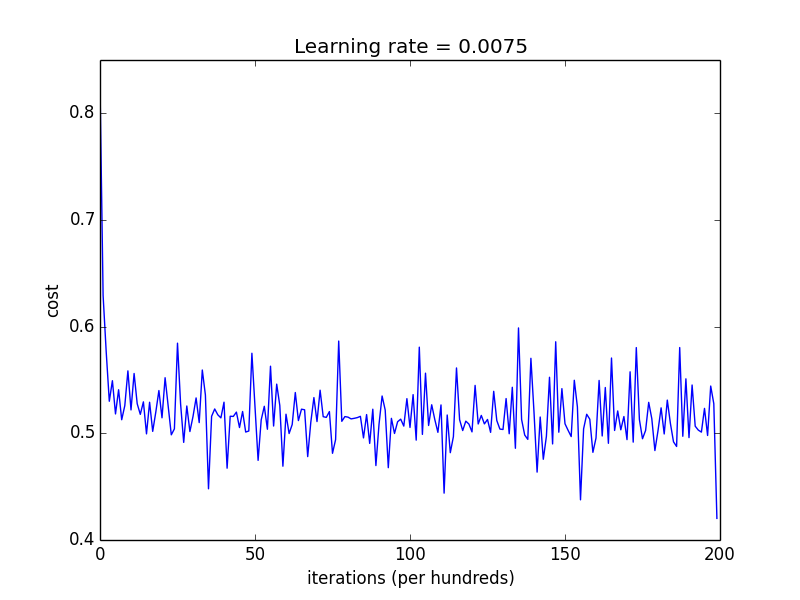
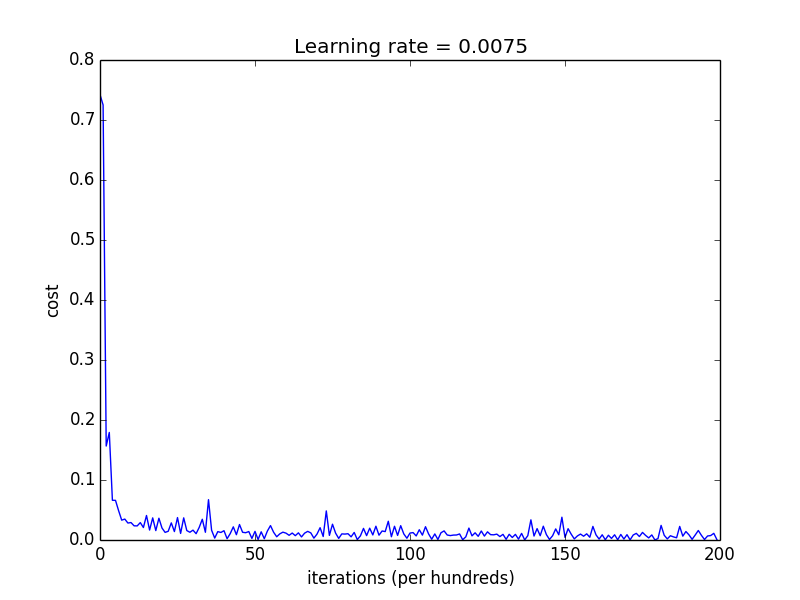
modify lesson4

diff --git a/lesson4/planar_utils.py b/lesson4/planar_utils.py
@@ -1,19 +1,4 @@
 # -*- coding:utf-8 -*-
-#!/usr/bin/env python
-#  -*- coding:utf-8 -*-
-################################################################################
-#
-# Copyright (c) 2017 Baidu.com, Inc. All Rights Reserved
-#
-################################################################################
-
-"""
-Authors: Jiahui Liu(897744517@qq.com)
-Date:    2017/11/19 17:23:06
-
-用于载入数据
-load_planar_dataset()函数返回训练集和测试集
-"""
 import matplotlib.pyplot as plt
 import numpy as np
 import random
@@ -21,17 +6,10 @@ import sklearn
 import sklearn.datasets
 import sklearn.linear_model
 
-#绘制分类结果边界
 def plot_decision_boundary(model, X, y):
-    """
-    绘制分类边界
-    model: 模型
-    X: 输入值
-    y: 真实值
-    """
     # Set min and max values and give it some padding
-    x_min, x_max = X[0, : ].min() - 1, X[0, : ].max() + 1
-    y_min, y_max = X[1, : ].min() - 1, X[1, : ].max() + 1
+    x_min, x_max = X[0, :].min() - 1, X[0, :].max() + 1
+    y_min, y_max = X[1, :].min() - 1, X[1, :].max() + 1
     h = 0.01
     # Generate a grid of points with distance h between them
     xx, yy = np.meshgrid(np.arange(x_min, x_max, h), np.arange(y_min, y_max, h))
@@ -42,9 +20,9 @@ def plot_decision_boundary(model, X, y):
     plt.contourf(xx, yy, Z, cmap=plt.cm.Spectral)
     plt.ylabel('x2')
     plt.xlabel('x1')
-    plt.scatter(X[0, : ], X[1, : ], c=y, cmap=plt.cm.Spectral)
+    plt.scatter(X[0, :], X[1, :], c=y, cmap=plt.cm.Spectral)
     
-#定义Sigmoid函数
+
 def sigmoid(x):
     """
     Compute the sigmoid of x
@@ -55,12 +33,9 @@ def sigmoid(x):
     Return:
     s -- sigmoid(x)
     """
-    # Sigmoid计算
-    s = 1 / (1 + np.exp(-x))
+    s = 1/(1+np.exp(-x))
     return s
 
-
-#加载数据
 def load_planar_dataset():
     """
     加载数据
@@ -70,48 +45,35 @@ def load_planar_dataset():
         X:测试集的输入
         Y:测试集的真实值
     """
-    np.random.seed(1) #设置随机种子
-    m = 400 # number of examples
-    N = int(m / 2) # number of points per class
-    D = 2 # dimensionality
-    X = np.zeros((m, D)) # data matrix where each row is a single example
-    Y = np.zeros((m, 1), dtype='uint8') # labels vector (0 for red, 1 for blue)
-    a = 4 # maximum ray of the flower
-
-    for j in range(2):
+    N = 200  # number of points per class
+    D = 2  # dimensionality
+    K = 2  # number of classes
+    X = np.zeros((N * K, D))  # data matrix (each row = single example)
+    y = np.zeros(N * K, dtype='uint8')  # class labels
+    for j in range(K):
         ix = range(N * j, N * (j + 1))
-        t = np.linspace(j * 3.12, (j + 1) * 3.12, N) + np.random.randn(N) * 0.2 # theta
-        r = a * np.sin(4 * t) + np.random.randn(N) * 0.2 # radius
+        r = np.linspace(0.0, 1, N)  # radius
+        t = np.linspace(j * 4, (j + 1) * 4, N) + np.random.randn(N) * 0.2  # theta
         X[ix] = np.c_[r * np.sin(t), r * np.cos(t)]
-        Y[ix] = j
-
-    #测试集，取全部数据
+        y[ix] = j
+    # lets visualize the data:
     X = X.T
-    Y = Y.T
+    Y = y.reshape(1, 400)
 
-    #训练集
-    train_num = random.sample(range(400),320)#共400组数据，训练集取其中80%，即320组
-    train_x = X[: , train_num]
-    train_y = Y[: , train_num]
+    # 训练集
+    train_num = random.sample(range(400), 320)  # 共400组数据，训练集取其中80%，即320组
+    train_x = X[:, train_num]
+    train_y = Y[:, train_num]
 
     dataset = [train_x, train_y, X, Y]
     return dataset
 
-
-#加载其他数据
-def load_extra_datasets():
-    """
-    加载其它数据
-    return:
-        result:包含5种不同类型数据的集合
-    """
+def load_extra_datasets():  
     N = 200
     noisy_circles = sklearn.datasets.make_circles(n_samples=N, factor=.5, noise=.3)
     noisy_moons = sklearn.datasets.make_moons(n_samples=N, noise=.2)
     blobs = sklearn.datasets.make_blobs(n_samples=N, random_state=5, n_features=2, centers=6)
-    gaussian_quantiles = sklearn.datasets.make_gaussian_quantiles(
-mean=None, cov=0.5, n_samples=N, n_features=2, n_classes=2, shuffle=True, random_state=None)
+    gaussian_quantiles = sklearn.datasets.make_gaussian_quantiles(mean=None, cov=0.5, n_samples=N, n_features=2, n_classes=2, shuffle=True, random_state=None)
     no_structure = np.random.rand(N, 2), np.random.rand(N, 2)
-
-    result = [noisy_circles, noisy_moons, blobs, gaussian_quantiles, no_structure]
-    return result
+    
+    return noisy_circles, noisy_moons, blobs, gaussian_quantiles, no_structure
